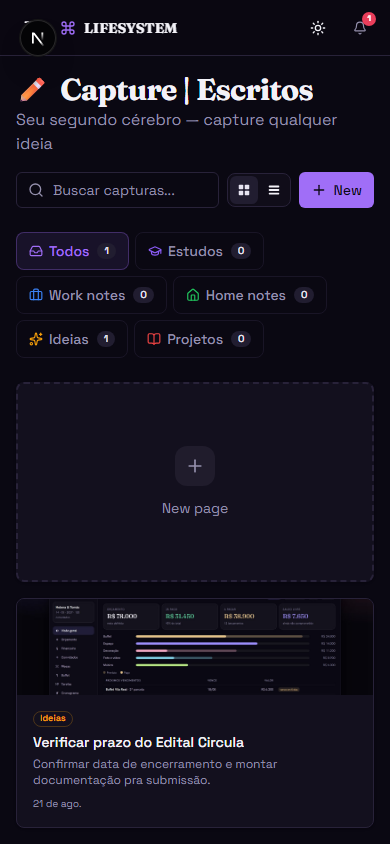
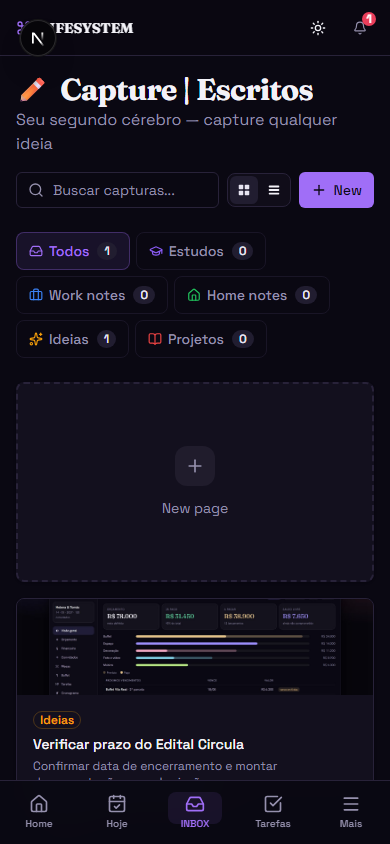
Phase 6: mobile bottom nav + full-entity ⌘K search
Two independent gaps from the roadmap's last phase:

1. Mobile navigation was a straight responsive collapse of the desktop
   sidebar into a hamburger drawer — the worst thumb-reach position on
   a phone. Added a persistent bottom tab bar (Home/Hoje/INBOX/Tarefas
   + "Mais" for everything else), the Things3/Todoist pattern. "Mais"
   reuses the exact same full-nav Sheet the hamburger used to open —
   no duplicated menu markup. Removed the now-redundant hamburger from
   the mobile top bar since the bottom nav fully replaces its job;
   the top bar is now just branding + theme toggle + notifications.
   Added pb-16 (lg:pb-0) to the main content wrapper so page content
   doesn't render underneath the new bar.

2. ⌘K search covered 6 of ~9 relevant entity types (Tarefas, Capturas,
   Conteúdo, Diário, Projetos, Financeiro) — Pilares, Metas, and Visão
   were invisible to search entirely. Added all three to
   command-palette.tsx's ENTITY_CONFIG; the search loop already
   iterates that config generically (Object.entries), so no other code
   needed to change.

Verified: mobile viewport screenshot shows the 4-item bar + Mais with
correct active-state highlighting on Hoje, no content clipped
underneath it; ⌘K search for "fe" now surfaces a Pilares match
(Físico/Corpo) alongside the existing Tarefas/Projetos results.
Production build and type-check clean, full mobile sweep clean.

This closes the last phase of the roadmap from the planning session
[…]

diff --git a/src/components/layout/sidebar.tsx b/src/components/layout/sidebar.tsx
@@ -229,7 +229,19 @@ function SidebarContent({ collapsed, onToggleCollapse, onNavigate }: {
   );
 }
 
+// The 4 most-used destinations, thumb-reachable at the bottom of the
+// screen — the Things3/Todoist pattern. Everything else (including the
+// full nav list) stays one tap away behind "Mais", which reuses the same
+// Sheet the old hamburger opened rather than duplicating that UI.
+const BOTTOM_NAV_ITEMS = [
+  { name: 'Home', href: '/', icon: Home },
+  { name: 'Hoje', href: '/hoje', icon: CalendarCheck },
+  { name: 'INBOX', href: '/inbox', icon: Inbox },
+  { name: 'Tarefas', href: '/tarefas', icon: CheckSquare },
+];
+
 export function Sidebar() {
+  const pathname = usePathname();
   const [open, setOpen] = useState(false);
   const [collapsed, setCollapsed] = useState(false);
   const [settingsOpen, setSettingsOpen] = useState(false);
@@ -260,18 +272,10 @@ export function Sidebar() {
 
   return (
     <>
-      {/* Mobile Header */}
+      {/* Mobile Header — no hamburger here anymore: the bottom nav's "Mais"
+          opens the same full-list Sheet, so this bar is just branding +
+          the actions that don't fit in the bottom nav's 5 thumb-reach slots. */}
       <div className="fixed left-0 right-0 top-0 z-50 flex h-14 items-center gap-3 border-b border-border bg-background/80 backdrop-blur-xl px-4 lg:hidden">
-        <Sheet open={open} onOpenChange={setOpen}>
-          <SheetTrigger asChild>
-            <Button variant="ghost" size="icon" className="h-8 w-8">
-              <Menu className="h-5 w-5" />
-            </Button>
-          </SheetTrigger>
-          <SheetContent side="left" className="w-64 p-0">
-            <SidebarContent collapsed={false} onToggleCollapse={() => {}} onNavigate={() => setOpen(false)} />
-          </SheetContent>
-        </Sheet>
         <div className="flex items-center gap-2">
           <Command className="h-4 w-4 text-primary" />
           <span className="font-display text-sm font-bold">LIFESYSTEM</span>
@@ -283,6 +287,41 @@ export function Sidebar() {
           <NotificationCenter />
         </div>
       </div>
+
+      {/* Mobile Bottom Nav */}
+      <nav className="fixed bottom-0 left-0 right-0 z-50 flex h-16 items-center border-t border-border bg-background/95 backdrop-blur-xl lg:hidden">
+        {BOTTOM_NAV_ITEMS.map((item) => {
+          const isActive = pathname === item.href;
+          return (
+            <Link
+              key={item.name}
+              href={item.href}
+              className="relative flex flex-1 flex-col items-center justify-center gap-0.5 py-1.5"
+            >
+              {isActive && (
+                <motion.span
+                  layoutId="bottom-nav-active"
+                  className="absolute inset-x-3 top-1 h-8 rounded-lg bg-primary/10"
+                  transition={{ type: 'spring', stiffness: 500, damping: 38 }}
+                />
+              )}
+              <item.icon className={cn('relative z-10 h-5 w-5', isActive ? 'text-primary' : 'text-muted-foreground')} />
+              <span className={cn('relative z-10 text-[10px] font-medium', isActive ? 'text-primary' : 'text-muted-foreground')}>{item.name}</span>
+            </Link>
+          );
+        })}
+        <Sheet open={open} onOpenChange={setOpen}>
+          <SheetTrigger asChild>
+            <button className="flex flex-1 flex-col items-center justify-center gap-0.5 py-1.5">
+              <Menu className="h-5 w-5 text-muted-foreground" />
+              <span className="text-[10px] font-medium text-muted-foreground">Mais</span>
+            </button>
+          </SheetTrigger>
+          <SheetContent side="left" className="w-64 p-0">
+            <SidebarContent collapsed={false} onToggleCollapse={() => {}} onNavigate={() => setOpen(false)} />
+          </SheetContent>
+        </Sheet>
+      </nav>
 
       {/* Desktop Sidebar */}
       <motion.aside

diff --git a/src/components/layout/command-palette.tsx b/src/components/layout/command-palette.tsx
@@ -141,6 +141,37 @@ const ENTITY_CONFIG: Record<string, {
       return `${prefix} ${formatted}`;
     },
   },
+  pillars: {
+    endpoint: '/api/pillars',
+    label: 'Pilares',
+    color: 'text-indigo-500',
+    icon: Layers,
+    getHref: () => '/pilares',
+    getTitle: (item) => (item.name as string) || 'Sem nome',
+    getSubtitle: (item) => (item.currentStatus as string) || 'Pilar',
+  },
+  indicators: {
+    endpoint: '/api/indicators',
+    label: 'Metas',
+    color: 'text-fuchsia-500',
+    icon: BarChart3,
+    getHref: () => '/indicadores',
+    getTitle: (item) => (item.name as string) || 'Sem nome',
+    getSubtitle: (item) => {
+      const current = item.currentValue as number;
+      const target = item.targetValue as number;
+      return target ? `${current || 0}/${target}` : (item.frequency as string) || 'Meta';
+    },
+  },
+  vision: {
+    endpoint: '/api/vision',
+    label: 'Visão',
+    color: 'text-teal-500',
+    icon: Target,
+    getHref: () => '/visao',
+    getTitle: (item) => (item.title as string) || 'Sem título',
+    getSubtitle: () => 'Plano de Voo',
+  },
 };
 
 const ENTITY_SLUG_MAP: Record<string, string> = {

diff --git a/src/components/layout/chrome-gate.tsx b/src/components/layout/chrome-gate.tsx
@@ -17,7 +17,7 @@ export function ChromeGate({ children }: { children: React.ReactNode }) {
   return (
     <>
       <Sidebar />
-      <main className="pt-14 lg:pl-64 lg:pt-0">
+      <main className="pt-14 pb-16 lg:pl-64 lg:pt-0 lg:pb-0">
         <AppShell>{children}</AppShell>
       </main>
       <CommandPalette />
